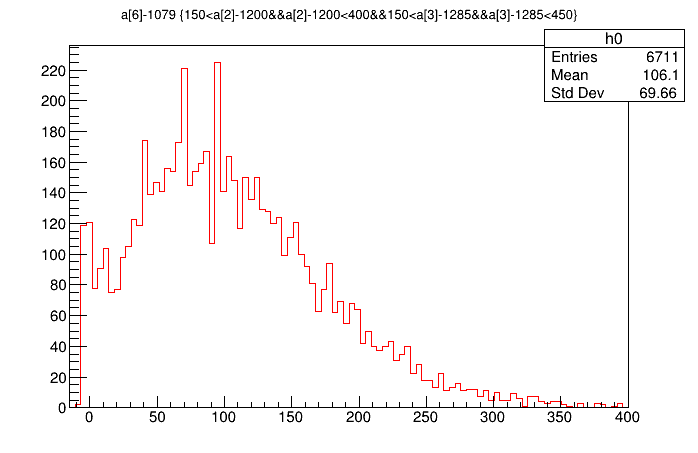
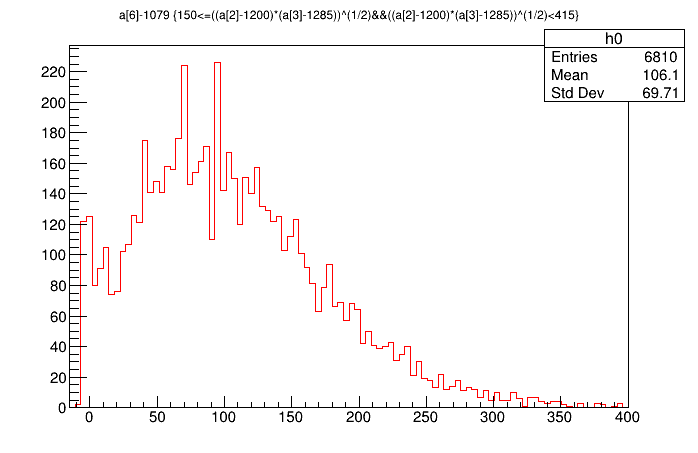
update

diff --git a/script/script_spr/spr015.C b/script/script_spr/spr015.C
@@ -33,20 +33,21 @@
     //ADC分布全体の確認
     // T->Draw("a[2]-1200>>h0(200,-100,1500)");
     // T->Draw("a[3]-1285>>h0(200,-100,1500)");
-    // T->Draw("(a[2]-1200+a[3]-1285)/2>>h0(200,100,500)");
+    // T->Draw("((a[2]-1200)*(a[3]-1285))^(1/2)>>h0(200,-100,1500)");
 
     //ADC分布細部の確認
     // T->Draw("a[2]-1200>>h0(100,100,500)");
     // T->Draw("a[3]-1285>>h0(100,100,500)");
+    // T->Draw("((a[2]-1200)*(a[3]-1285))^(1/2)>>h0(200,100,500)");
 
     //陽電子一個のイベントのみでADC分布を確認
-    T->Draw("a[4]-1309>>h0(100,-15,400)","150<a[2]-1200&&a[2]-1200<400&&150<a[3]-1285&&a[3]-1285<450");
+    // T->Draw("a[4]-1309>>h0(100,-15,400)","150<=((a[2]-1200)*(a[3]-1285))^(1/2)&&((a[2]-1200)*(a[3]-1285))^(1/2)<415");
 
-    // T->Draw("a[5]-1375>>h0(100,-15,400)","150<a[2]-1200&&a[2]-1200<400&&150<a[3]-1285&&a[3]-1285<450");
+    // T->Draw("a[5]-1375>>h0(100,-15,400)","150<=((a[2]-1200)*(a[3]-1285))^(1/2)&&((a[2]-1200)*(a[3]-1285))^(1/2)<415");
 
-    // T->Draw("a[6]-1079>>h0(100,-15,400)","150<a[2]-1200&&a[2]-1200<400&&150<a[3]-1285&&a[3]-1285<450");
+    // T->Draw("a[6]-1079>>h0(100,-15,400)","150<=((a[2]-1200)*(a[3]-1285))^(1/2)&&((a[2]-1200)*(a[3]-1285))^(1/2)<415");
 
-    // T->Draw("a[7]-1262>>h0(100,-15,400)","150<a[2]-1200&&a[2]-1200<400&&150<a[3]-1285&&a[3]-1285<450");
+    T->Draw("a[7]-1262>>h0(100,-15,400)","150<=((a[2]-1200)*(a[3]-1285))^(1/2)&&((a[2]-1200)*(a[3]-1285))^(1/2)<415");
 
     //陽電子一個のイベントかつペデスタルの標準誤差3倍以下を排除でADC分布を確認
     // T->Draw("a[4]-1309>>h0(100,-15,400)","150<a[2]-1200&&a[2]-1200<400&&150<a[3]-1285&&a[3]-1285<450&&a[4]-1309>6.12");
@@ -64,13 +65,13 @@
 
     h0->SetLineColor(2);
 
-    // h0->Draw("");
+    h0->Draw("");
 
     // fitGaussians3(h0, 0, 300);
 
     f1->cd();
 
-    // T->Draw("(a[2]-1200+a[3]-1285)/2>>h1(200,100,500)","(a[2]-1200+a[3]-1285)/2>420","same hist");
+    // T->Draw("((a[2]-1200)*(a[3]-1285))^(1/2)>>h1(200,100,500)","((a[2]-1200)*(a[3]-1285))^(1/2)>415","same hist");
 
     //ペデスタルを表示
     // T->Draw("a[4]-1309>>h1(100,-15,400)","150<a[2]-1200&&a[2]-1200<400&&150<a[3]-1285&&a[3]-1285<450&&a[4]-1309<=6.12","same hist");
@@ -88,13 +89,13 @@
 
     
     // ヒストグラムの統計情報を取得して描画
-    TPaveText *stats_h1 = new TPaveText(0.8, 0.6, 0.98, 0.75, "NDC");
-    stats_h1->SetTextSize(0.03);
-    stats_h1->AddText("h1");
-    stats_h1->AddText(Form("Entries: %.0f", h1->GetEntries()));
-    stats_h1->AddText(Form("Mean: %.2f", h1->GetMean()));
-    stats_h1->AddText(Form("Std Dev: %.2f", h1->GetStdDev()));
-    stats_h1->SetFillColor(0);
+    // TPaveText *stats_h1 = new TPaveText(0.8, 0.6, 0.98, 0.75, "NDC");
+    // stats_h1->SetTextSize(0.03);
+    // stats_h1->AddText("h1");
+    // stats_h1->AddText(Form("Entries: %.0f", h1->GetEntries()));
+    // stats_h1->AddText(Form("Mean: %.2f", h1->GetMean()));
+    // stats_h1->AddText(Form("Std Dev: %.2f", h1->GetStdDev()));
+    // stats_h1->SetFillColor(0);
     // stats_h1->Draw();
 
 
@@ -105,7 +106,7 @@
 //     c1->Print("C:/Users/posei/Desktop/tokken/winscp/data_test/output/hal008_009_a[3].pdf");
     // c1->Print("C:/Users/niiyama/Desktop/Kyotaro_Nishi/root/root_analysis/output/output_don/don025(red)-033(blue)-036(green)-039(black)-030(pink)_a[0].png");
     // c1->Print("C:/Users/niiyama/Desktop/Kyotaro_Nishi/root/root_analysis/output/output_don/don060(red)-053(blue)-054(green)-055(black)_a[0].png");
-    // c1->Print("C:/Users/niiyama/Desktop/Kyotaro_Nishi/root/root_analysis/output/output_spr/spr015_a[2]a[3]_detail.png");
+    // c1->Print("C:/Users/niiyama/Desktop/Kyotaro_Nishi/root/root_analysis/output/output_spr/spr015_a[7].png");
 }
 
 #include <TF1.h>
